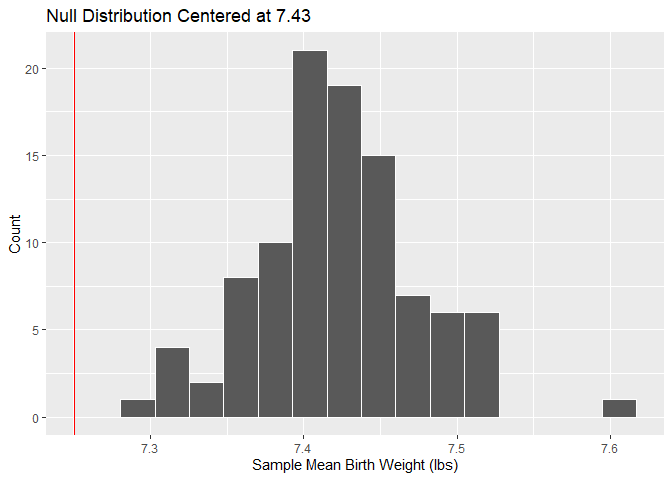
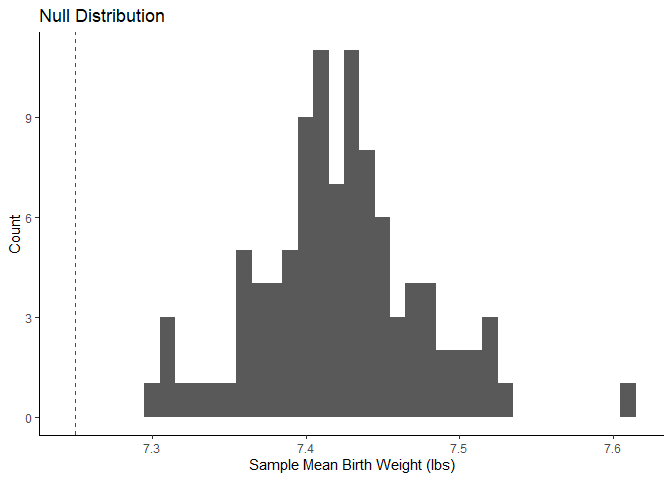
up through ex 12

diff --git a/lab-12.md b/lab-12.md
@@ -121,7 +121,13 @@ the criteria for conducting simulation-based inference are satisfied.
 The data has a lot of observations (1000), they are randomly sampled,
 and these observations are independent of each other.
 
-\##Exercise 4
+\##Exercise 4 H0:μ=7.43 poundsH0:μ=7.43 pounds. HA:μ≠7.43
+poundsHA:μ≠7.43 pounds.
+
+There were 0 bootstrapped samples with the null distribution wiht a mean
+at or lower than 7.25 (p \< .05). This means that it is highly unlikely
+that the mean birth weight in 1995 was the same as it is now, they are
+significantly different.
 
 ``` r
 sim_ncbirth_white <- ncbirths_white %>%
@@ -151,14 +157,28 @@ null_dist <- sim_ncbirth_white %>%
 ```
 
 ``` r
-visualize(null_dist) +
-  geom_vline(xintercept = obs_mean_value, color = "red") +
-  labs(title = "Null Distribution Centered at 7.43",
-       x = "Sample Mean Birth Weight (lbs)",
-       y = "Count")
+ggplot(null_dist, mapping = aes(x = stat))+
+  geom_histogram(binwidth = .01)+
+  geom_vline(xintercept = 7.25, color = "red", linetype = "dashed") +
+  labs(
+    title = "Null Distribution",
+    x = "Sample Mean Birth Weight (lbs)",
+       y = "Count")+
+  theme_classic()
 ```
 
 ![](lab-12_files/figure-gfm/plot-1.png)<!-- -->
+
+``` r
+null_dist %>%
+  filter(stat <= (7.25)) %>%
+  summarize(p_value = n()/nrow(null_dist))
+```
+
+    ## # A tibble: 1 × 1
+    ##   p_value
+    ##     <dbl>
+    ## 1       0
 
 ``` r
 p_value <- null_dist %>%
@@ -178,4 +198,183 @@ p_value
     ##     <dbl>
     ## 1       0
 
-Add exercise headings as needed.
+\##Exercise 5
+
+This plot shows that smoking reduces the childs weight compared to not
+smoking. Also there seems to be a lot of variability in the non smoking
+data.
+
+``` r
+ggplot(ncbirths, aes(x = habit, y = weight)) +
+  geom_boxplot()
+```
+
+![](lab-12_files/figure-gfm/boxplot-1.png)<!-- -->
+
+\##Exercise 6
+
+``` r
+ncbirths_clean <- ncbirths %>%
+  filter(!is.na(habit)) %>%
+  filter(!is.na(weight)) 
+```
+
+\##Exercise 7
+
+``` r
+ncbirths_clean %>%
+  group_by(habit) %>%
+  summarize(mean_weight = mean(weight),
+  sd_weight = sd(weight))
+```
+
+    ## # A tibble: 2 × 3
+    ##   habit     mean_weight sd_weight
+    ##   <fct>           <dbl>     <dbl>
+    ## 1 nonsmoker        7.14      1.52
+    ## 2 smoker           6.83      1.39
+
+\##Exercise 8 H0:weight of smoker = weight of nonsmoker (mother) HA:
+weight of smoker ≠ weight of nonsmoker (mother)
+
+\##Exercise 9
+
+run a t test to evaluate the hypothesis
+
+``` r
+t.test(weight ~ habit, data = ncbirths_clean)
+```
+
+    ## 
+    ##  Welch Two Sample t-test
+    ## 
+    ## data:  weight by habit
+    ## t = 2.359, df = 171.32, p-value = 0.01945
+    ## alternative hypothesis: true difference in means between group nonsmoker and group smoker is not equal to 0
+    ## 95 percent confidence interval:
+    ##  0.05151165 0.57957328
+    ## sample estimates:
+    ## mean in group nonsmoker    mean in group smoker 
+    ##                7.144273                6.828730
+
+these are statistically significant
+
+\#Exercise 10
+
+make confidence intervals for each group
+
+``` r
+ncbirths_clean %>%
+  group_by(habit) %>%
+  summarize(mean_weight = mean(weight),
+            sd_weight = sd(weight),
+            n = n()) %>%
+  mutate(se = sd_weight/sqrt(n),
+         lower_ci = mean_weight - qt(0.975, df = n-1) * se,
+         upper_ci = mean_weight + qt(0.975, df = n-1) * se)
+```
+
+    ## # A tibble: 2 × 7
+    ##   habit     mean_weight sd_weight     n     se lower_ci upper_ci
+    ##   <fct>           <dbl>     <dbl> <int>  <dbl>    <dbl>    <dbl>
+    ## 1 nonsmoker        7.14      1.52   873 0.0514     7.04     7.25
+    ## 2 smoker           6.83      1.39   126 0.123      6.58     7.07
+
+Yippie
+
+\#Exercise 11
+
+“First, a non-inference task: Determine the age cutoff for younger and
+mature mothers. Use a method of your choice, and explain how your method
+works.”
+
+the cuttoff for younger moms is at 34 and for mature moms is 50 I just
+got the min and max of the age ranges after grouping them by the mature
+variable
+
+``` r
+ncbirths_clean %>%
+  group_by(mature) %>%
+  summarize(
+    mean_mage = mean(mage, na.rm = TRUE),
+    min_mage = min(mage, na.rm = TRUE),
+    max_mage = max(mage, na.rm = TRUE)
+  )
+```
+
+    ## # A tibble: 2 × 4
+    ##   mature      mean_mage min_mage max_mage
+    ##   <fct>           <dbl>    <int>    <int>
+    ## 1 mature mom       37.2       35       50
+    ## 2 younger mom      25.4       13       34
+
+\#Exercise 12 “Conduct a hypothesis test evaluating whether the
+proportion of low birth weight babies is higher for mature mothers. Use
+α = 0.05.”
+
+The null hypothesis is that there is no difference between the
+proportion of low birth weights between mature and younger mothers The
+alternative hypothesis is that there is a difference between the
+proportion of low birth weights between mature and younger mothers.
+
+(use lowbirthweight variable)
+
+``` r
+ncbirths_clean %>%
+  count(mature, lowbirthweight) %>%
+  group_by(mature) %>%
+  mutate(p_hat = n / sum(n))
+```
+
+    ## # A tibble: 4 × 4
+    ## # Groups:   mature [2]
+    ##   mature      lowbirthweight     n p_hat
+    ##   <fct>       <fct>          <int> <dbl>
+    ## 1 mature mom  low               17 0.129
+    ## 2 mature mom  not low          115 0.871
+    ## 3 younger mom low               93 0.107
+    ## 4 younger mom not low          774 0.893
+
+``` r
+null_dist <- ncbirths_clean %>%
+  specify(response = lowbirthweight, 
+          explanatory = mature, 
+          success = "low") %>%
+  hypothesize(null = "independence") %>%
+  generate(100, type = "permute") %>%
+calculate(stat = "diff in props", order = c("mature mom", "younger mom"))
+
+head(null_dist)
+```
+
+    ## Response: lowbirthweight (factor)
+    ## Explanatory: mature (factor)
+    ## Null Hypothesis: independence
+    ## # A tibble: 6 × 2
+    ##   replicate     stat
+    ##       <int>    <dbl>
+    ## 1         1  0.0390 
+    ## 2         2 -0.00467
+    ## 3         3  0.00406
+    ## 4         4  0.00406
+    ## 5         5 -0.00467
+    ## 6         6 -0.0134
+
+``` r
+observed_stat <- ncbirths_clean %>%
+  group_by(mature) %>%
+  summarize(prop_low_birth_weight = mean(lowbirthweight == "low")) %>%
+  spread(mature, prop_low_birth_weight) %>%
+  mutate(diff_in_props = `mature mom` - `younger mom`) %>%
+  pull(diff_in_props)
+
+observed_stat
+```
+
+    ## [1] 0.02152144
+
+null hypothesis is rejected, meaning that the proportion of low birth
+weights are different between younger and mature moms with mature moms
+having a significantly greater amount of low birth weights.
+
+\#Exercise 13
